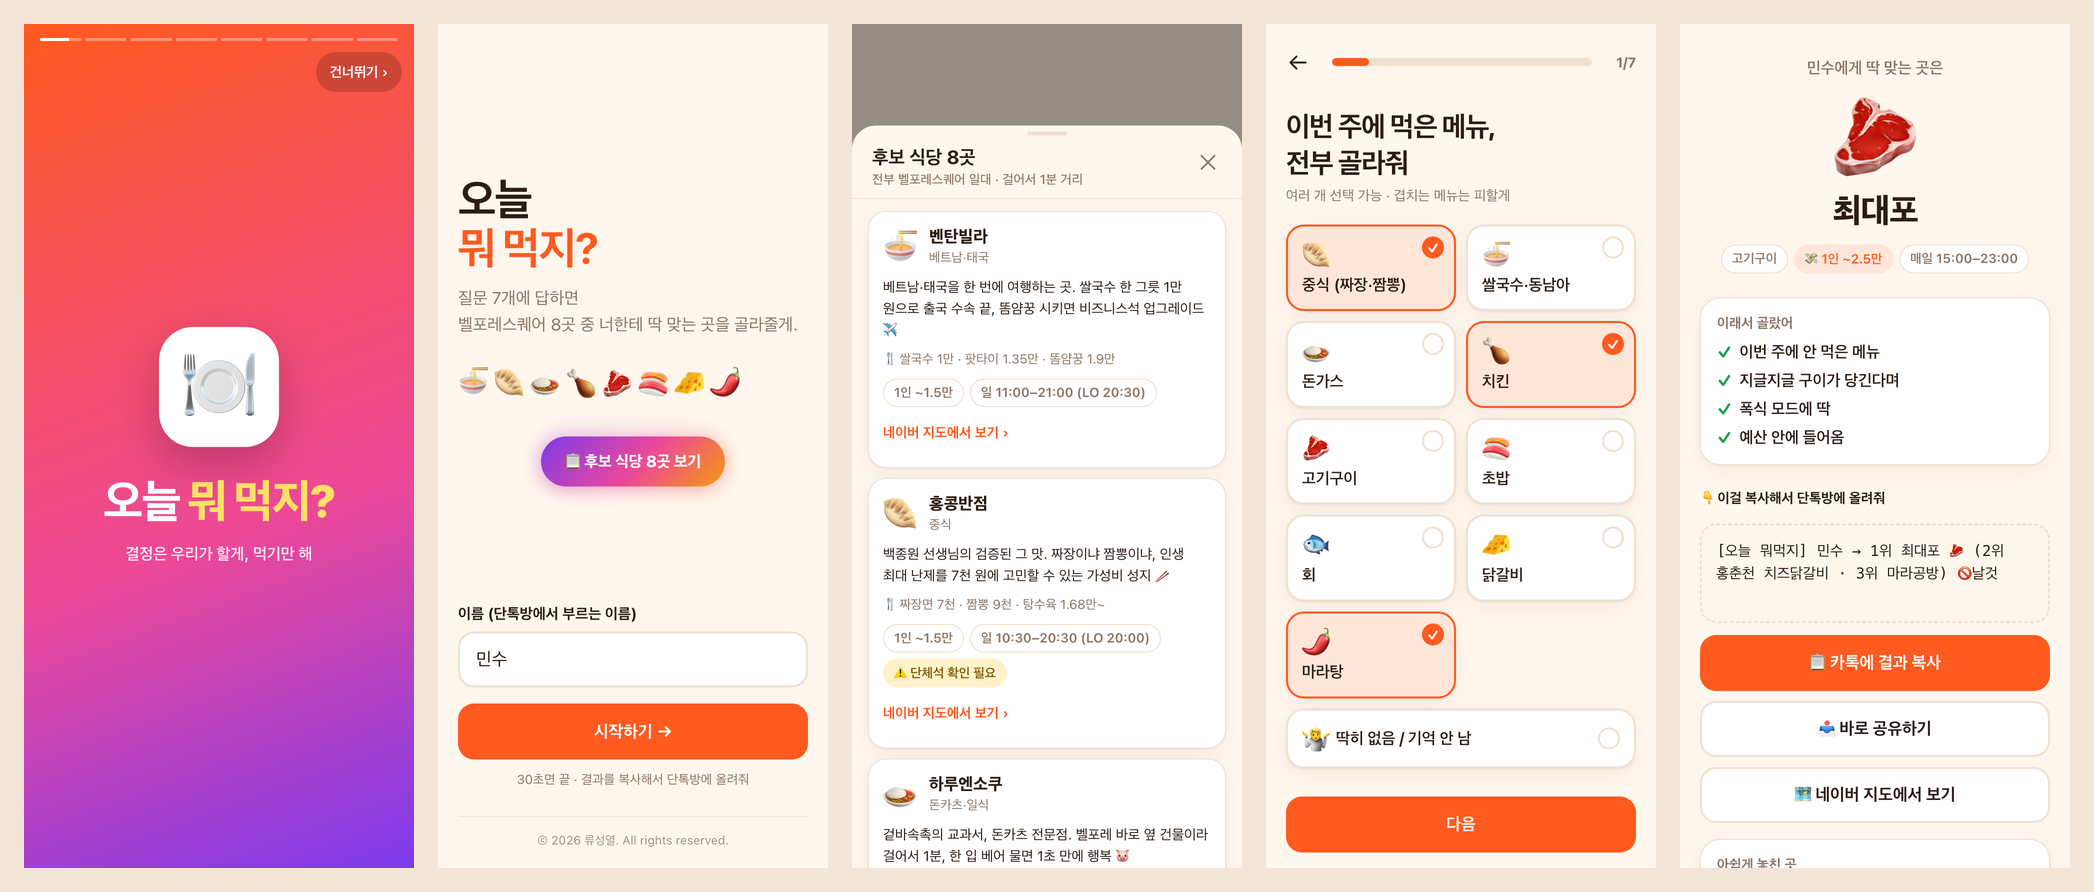
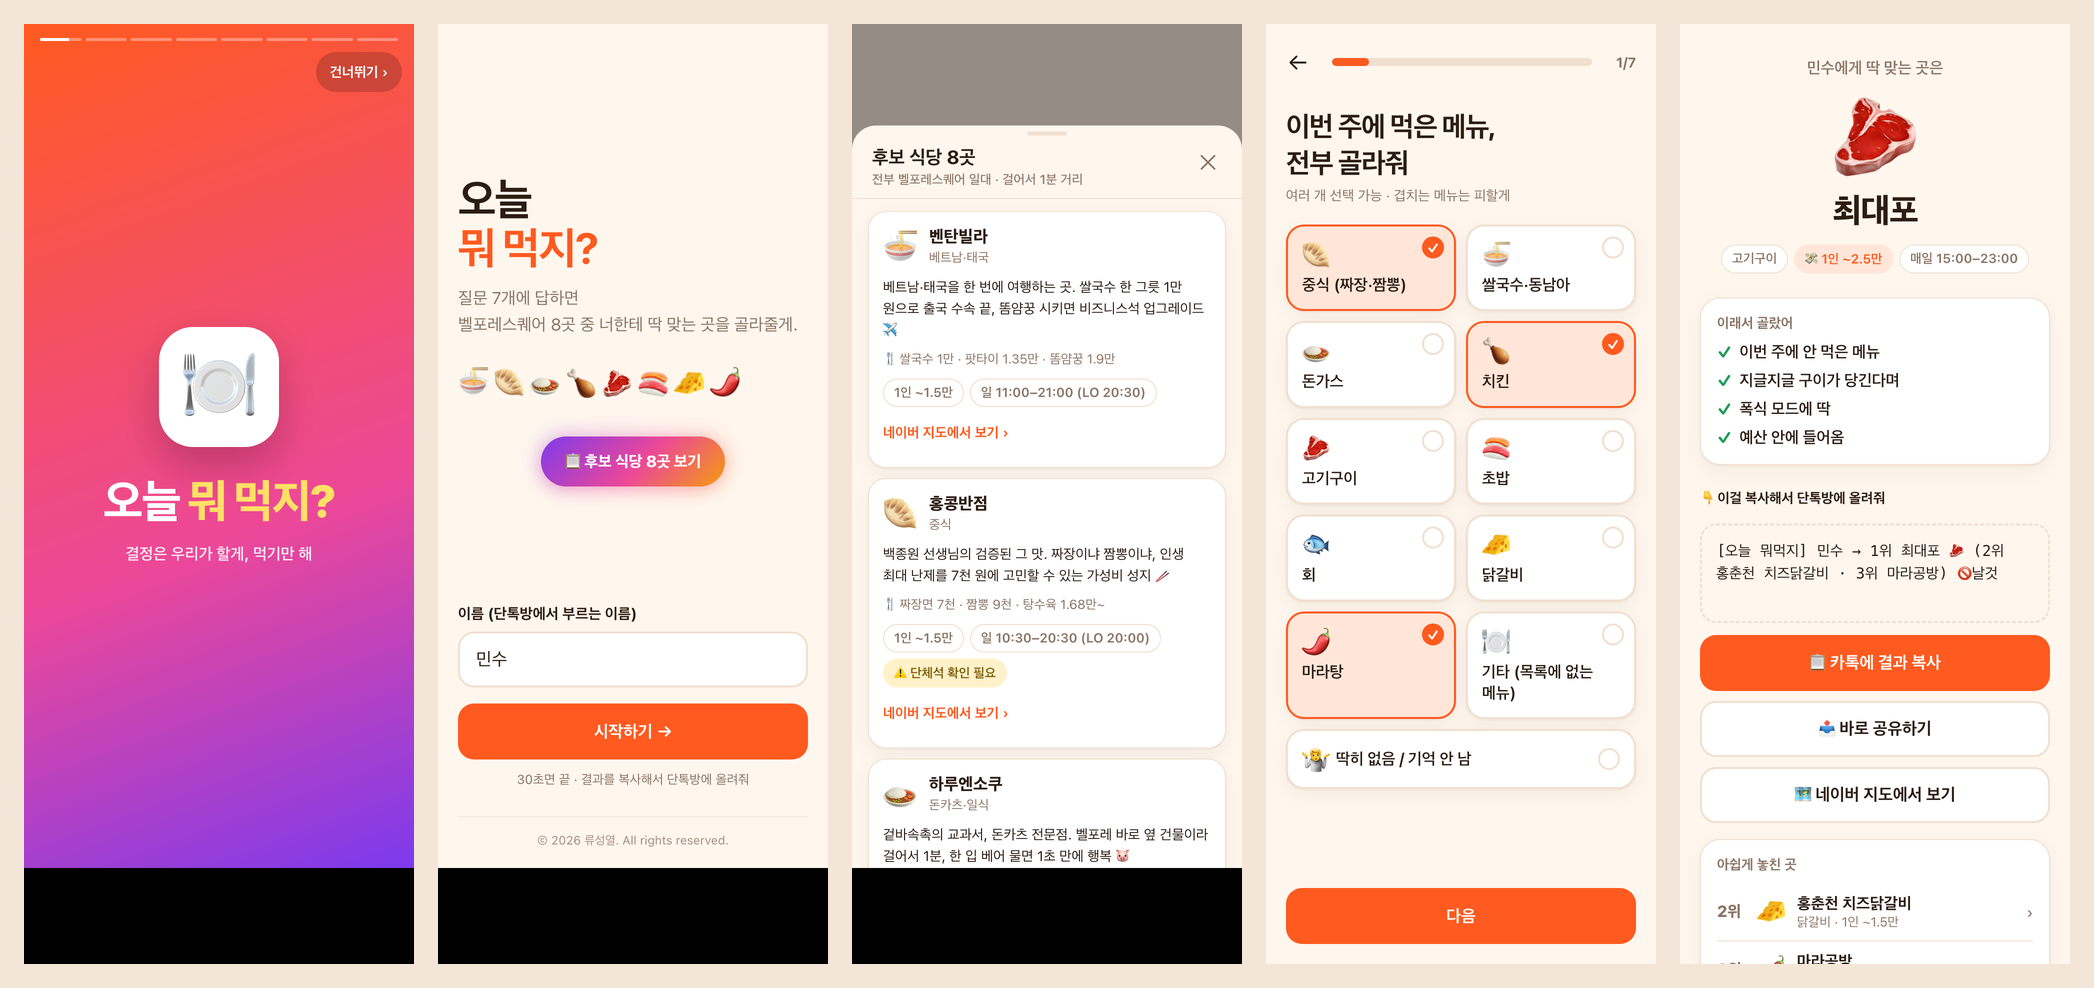
첫 질문 '기타' 라벨 축약

diff --git a/core.js b/core.js
@@ -37,7 +37,7 @@
         { id: "sashimi",  label: "회",               emoji: "🐟", score: { pado: -2 } },
         { id: "dakgalbi", label: "닭갈비",           emoji: "🧀", score: { dakgalbi: -4, bodram: -1 } },
         { id: "mala",     label: "마라탕",           emoji: "🌶", score: { mala: -4, hongkong: -1 } },
-        { id: "etc",      label: "기타 (목록에 없는 메뉴)", emoji: "🍽" },
+        { id: "etc",      label: "기타", emoji: "🍽" },
         { id: "none",     label: "딱히 없음 / 기억 안 남", emoji: "🤷", exclusive: true },
       ],
     },

diff --git a/index.html b/index.html
@@ -280,7 +280,7 @@
 <body>
 <main class="app" id="app"></main>
 <div class="toast" id="toast" role="status" aria-live="polite"></div>
-<script src="core.js?v=7"></script>
+<script src="core.js?v=8"></script>
 <script>
 (function () {
   const { RESTAURANTS, QUESTIONS, PRICE_LABEL, visibleOptions, recommend, shareText } = window.Core;
